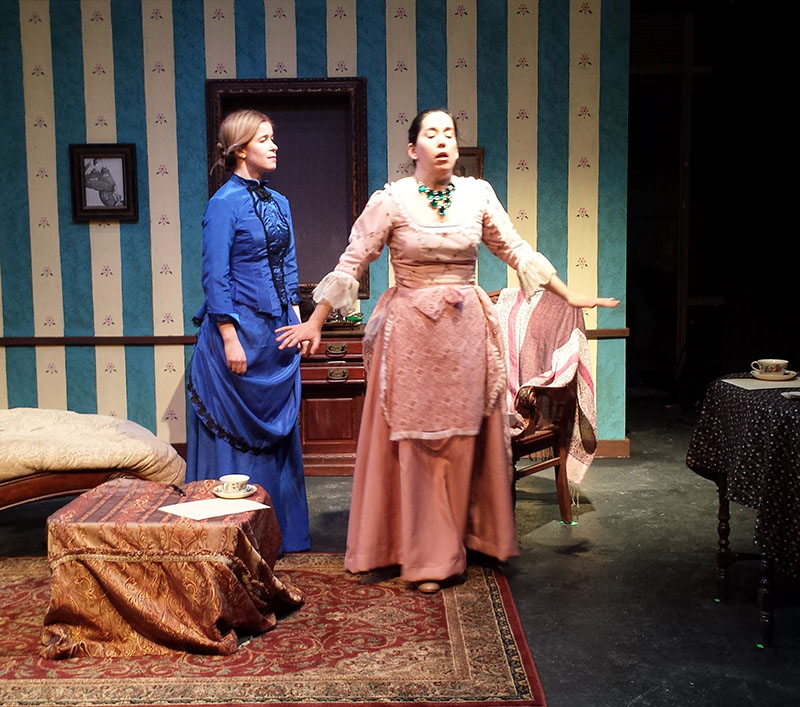
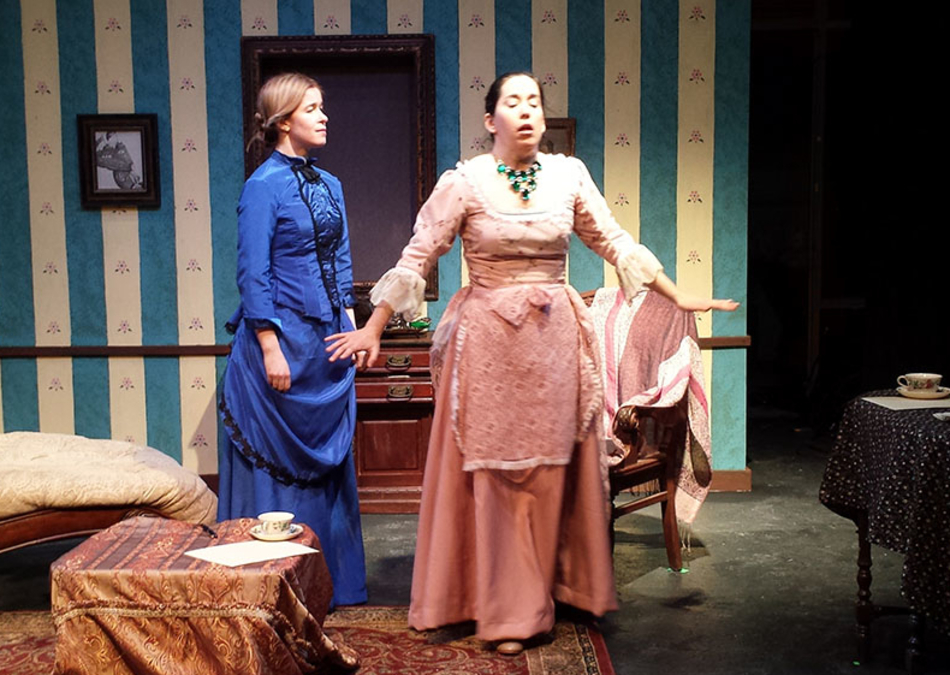
resize images for boston marriage

diff --git a/_productions/boston_marriage_2016.md b/_productions/boston_marriage_2016.md
@@ -35,7 +35,7 @@ cast:
 
 images:
   - url: /assets/images/surprisedSherry.jpg
-  - url: /assets/images/IMG_7931.jpg
+  - url: /assets/images/IMG_7931b.jpg
   - url: /assets/images/IMG_7945.jpg
   - url: /assets/images/IMG_7939.jpg
 
